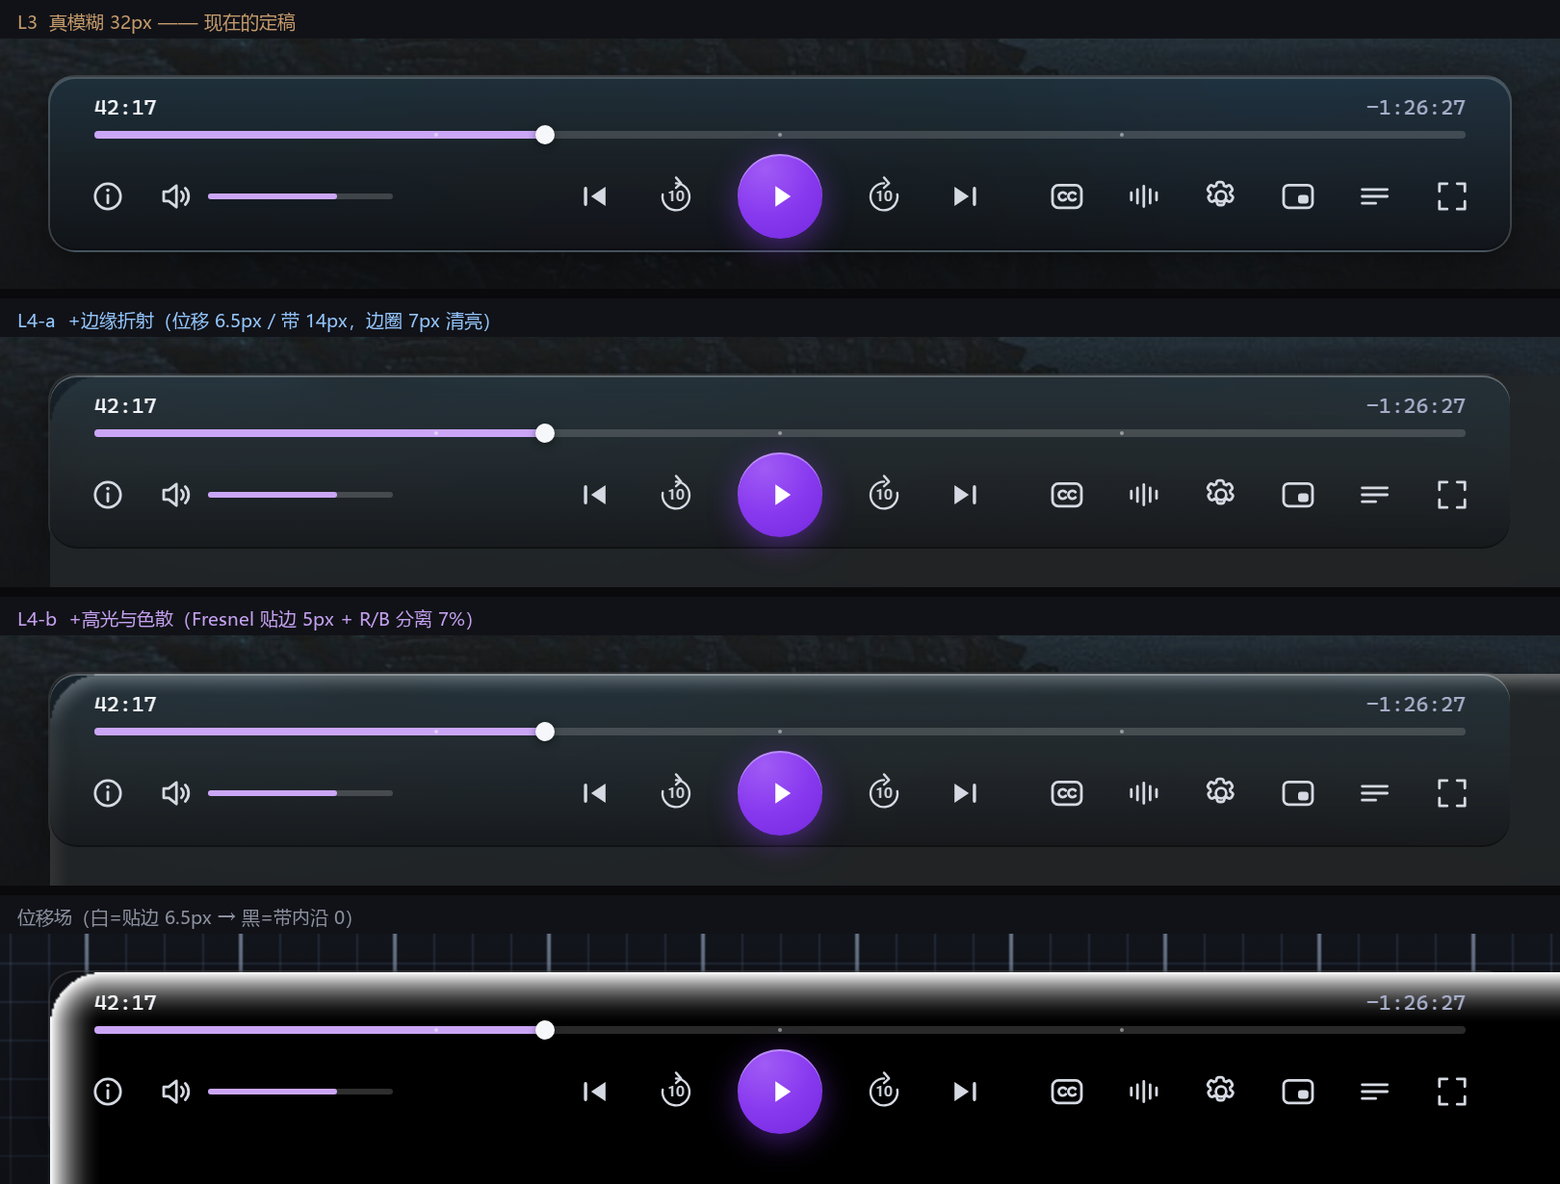
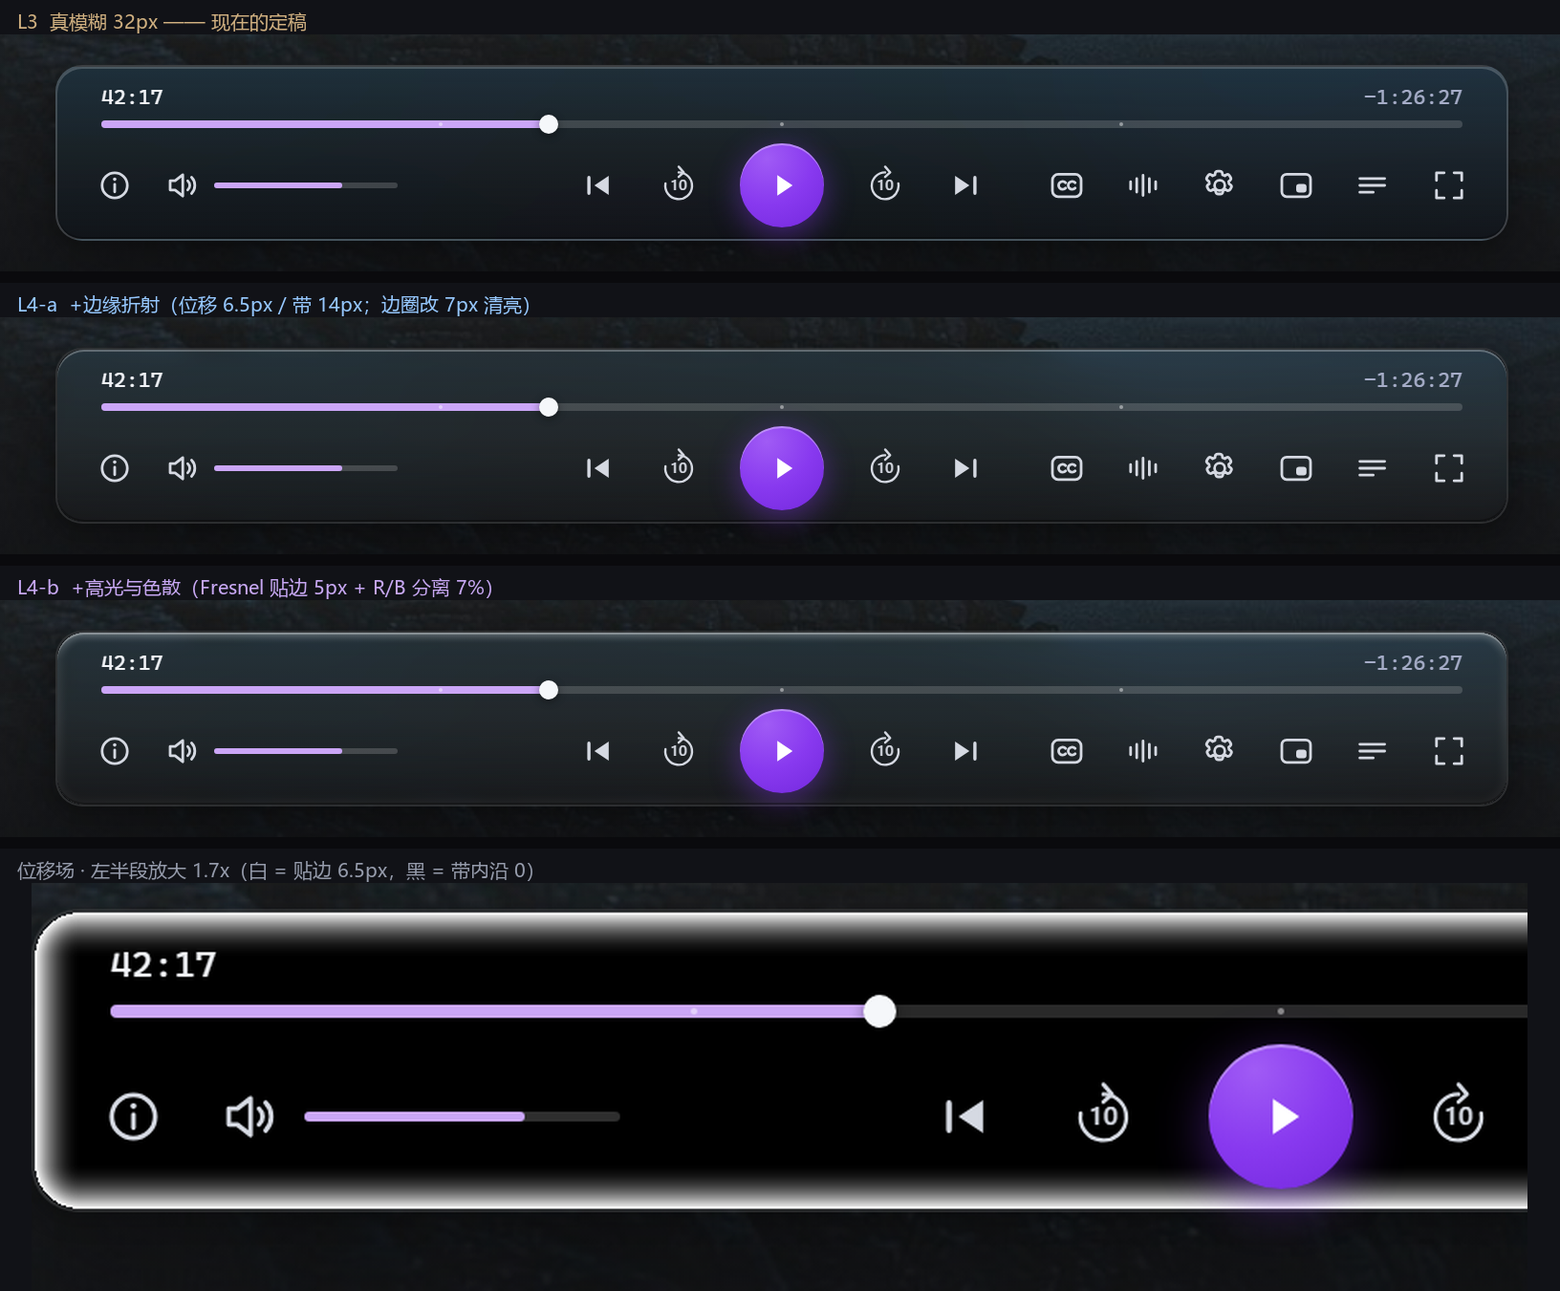
feat(preview): 液态玻璃改为双模糊 + 位移场诊断，修 canvas 尺寸与压暗层序
体部 30px / 边圈 7px 两份底，用同一条 (1-t)^2 过渡：只用一档必然二选一——整块变清或整块糊到没东西可弯。

canvas 是替换元素，inset:0 顶不住（width:auto 退回 1516x180，按 2 倍铺到胶囊外），改显式 100% + clientWidth；canvas 不透明会盖掉元素 background，染色与自适应压暗搬到 ::before，层序 z0 canvas / z1 压暗 / z2 内容 / z3 边线。

新增 ?glassdbg=1（只画位移量）与 ?card=1（高频测试卡）；maxd 放大到 20 验证过方向与范围，常规档仍 6.5px。docs/liquid-glass.png 四行对照重出。

spec.json 新增 texture_layers.L4_liquid_glass；README 补一节 L4 与两个实现坑。

diff --git a/design/preview/index.html b/design/preview/index.html
@@ -321,7 +321,10 @@ body{
      z2  内容            —— 进度条与按钮，玻璃可以扭，字必须锐
      z3  ::after         —— 1px 顶亮/底暗
 */
-.capsule > .glass{display:none;position:absolute;inset:0;z-index:0;pointer-events:none}
+/* canvas 是**替换元素**：`inset:0` 顶不住它——width:auto 会退回属性里的
+   intrinsic 尺寸（1520×184），结果它按 2 倍大小铺到胶囊外面去。
+   必须显式给 100%，尺寸才等于胶囊的 padding box。 */
+.capsule > .glass{display:none;position:absolute;left:0;top:0;width:100%;height:100%;z-index:0;pointer-events:none}
 .mode-liquid .capsule > .glass{display:block}
 .mode-liquid .capsule > .progress,
 .mode-liquid .capsule > .controls{position:relative;z-index:2}
@@ -780,10 +783,12 @@ function renderGlass(){
   if(!glassMode || !glassBgReady || glassBusy) return;
   glassBusy = true;
 
-  const W = capEl.offsetWidth, H = capEl.offsetHeight;
+  // 尺寸用 padding box（= canvas 的 100%），再加回 1px 描边才是它的窗口坐标
+  const W = capEl.clientWidth, H = capEl.clientHeight;
+  const bw = (capEl.offsetWidth - W) / 2, bh = (capEl.offsetHeight - H) / 2;
   // left:50% + translateX(-50%)：offsetLeft 是"50%"那个值，视觉左沿要减半宽
-  const x0 = capEl.offsetLeft - W / 2;
-  const y0 = capEl.offsetTop;
+  const x0 = capEl.offsetLeft - capEl.offsetWidth / 2 + bw;
+  const y0 = capEl.offsetTop + bh;
 
   const st = Math.min(2, window.devicePixelRatio || 1);
   const cw = Math.round(W * st), ch = Math.round(H * st);

diff --git a/scripts/make-liquid-doc.py b/scripts/make-liquid-doc.py
@@ -1,6 +1,8 @@
 """生成 docs/liquid-glass.png：L3 / +边缘折射 / +高光色散 / 位移场 四行对照。
 
 数据来自 target/lg 下 2x 截图（?bare=1 的窗口本身）。
+前三行裁整条胶囊（同框同尺寸，可直接上下比对）；第四行是位移场，
+只取左半段并放大 1.7x —— 标出来是放大图，避免和前几行混淆。
 """
 from pathlib import Path
 
@@ -9,43 +11,44 @@ from PIL import Image, ImageDraw, ImageFont
 LG = Path('target/lg')
 OUT = Path('docs/liquid-glass.png')
 
-BOX = (470, 1330, 2090, 1590)      # 胶囊带（2x 像素）
-FIELD_BOX = (470, 1330, 2090, 1590)
+BAND = (462, 1336, 2094, 1584)        # 整条胶囊（2x）：520-58 .. 2040+54
+FIELD = (520, 1352, 1430, 1600)       # 左半段，用于放大展示位移场
+FIELD_Z = 1.72
 
-FONT = ImageFont.truetype('C:/Windows/Fonts/msyh.ttc', 24)
-FONT_S = ImageFont.truetype('C:/Windows/Fonts/msyh.ttc', 19)
+FONT = ImageFont.truetype('C:/Windows/Fonts/msyh.ttc', 20)
+LABEL_H = 36
+GAP = 12
 
 ROWS = [
-    ('r_off.png',  'L3  真模糊 32px —— 现在的定稿', (196, 154, 108)),
-    ('r_edge.png', 'L4-a  +边缘折射（位移 6.5px / 带 14px，边圈 7px 清亮）', (147, 197, 253)),
-    ('r_full.png', 'L4-b  +高光与色散（Fresnel 贴边 5px + R/B 分离 7%）', (196, 160, 240)),
-    ('w_dbg.png',  '位移场（白=贴边 6.5px → 黑=带内沿 0）', (140, 145, 160)),
+    ('r_off.png',  BAND, 1.0, 'L3  真模糊 32px —— 现在的定稿', (208, 176, 128)),
+    ('r_edge.png', BAND, 1.0, 'L4-a  +边缘折射（位移 6.5px / 带 14px；边圈改 7px 清亮）', (150, 200, 255)),
+    ('r_full.png', BAND, 1.0, 'L4-b  +高光与色散（Fresnel 贴边 5px + R/B 分离 7%）', (200, 168, 244)),
+    ('r_dbg.png',  FIELD, FIELD_Z, '位移场 · 左半段放大 1.7x（白 = 贴边 6.5px，黑 = 带内沿 0）', (150, 156, 172)),
 ]
 
-LABEL_H = 40
-tape = Image.new('RGB', (BOX[2] - BOX[0], 0))
 rows = []
-for fn, tag, color in ROWS:
-    box = FIELD_BOX if fn.startswith('w_dbg') else BOX
+for fn, box, z, tag, color in ROWS:
     im = Image.open(LG / fn).convert('RGB').crop(box)
-    row = Image.new('RGB', (im.width, im.height + LABEL_H), (17, 18, 23))
-    row.paste(im, (0, LABEL_H))
-    d = ImageDraw.Draw(row)
-    d.text((18, 9), tag, font=FONT_S, fill=color)
-    rows.append(row)
+    if z != 1.0:
+        im = im.resize((round(im.width * z), round(im.height * z)), Image.LANCZOS)
+    rows.append((im, tag, color))
 
-GAP = 10
-W = rows[0].width
-H = sum(r.height for r in rows) + GAP * (len(rows) - 1)
+W = max(r[0].width for r in rows)
+built = []
+for im, tag, color in rows:
+    row = Image.new('RGB', (W, im.height + LABEL_H), (17, 18, 23))
+    row.paste(im, ((W - im.width) // 2, LABEL_H))
+    ImageDraw.Draw(row).text((18, 8), tag, font=FONT, fill=color)
+    built.append(row)
+
+H = sum(r.height for r in built) + GAP * (len(built) - 1)
 out = Image.new('RGB', (W, H), (10, 10, 13))
 y = 0
-for r in rows:
+for r in built:
     out.paste(r, (0, y))
     y += r.height + GAP
 
-# 缩到 1560 宽（文档里够看，文件不至于太大）
 if out.width > 1560:
-    h = round(out.height * 1560 / out.width)
-    out = out.resize((1560, h), Image.LANCZOS)
+    out = out.resize((1560, round(out.height * 1560 / out.width)), Image.LANCZOS)
 out.save(OUT, optimize=True)
 print(OUT, out.size, OUT.stat().st_size // 1024, 'KB')

diff --git a/design/README.md b/design/README.md
@@ -14,7 +14,7 @@
 | **视频播放态**（主窗 / 歌单展开 / 视频信息） | **`preview/index.html`** —— 画布上已不再有这几帧，见下面「为什么视频态不在画布上」 |
 | 应用图标 | `icons/chroma-{256,128,64,32,16}.png`（设计稿导出）；实际构建用的 `assets/chroma.ico` 见 `../docs/app-icon.png` |
 | 一眼看全貌 | `../docs/design-overview.png`（10 帧缩略图） |
-| 控制栏质感到什么程度 | `../docs/capsule-compare.png`（历史：画布 L3 vs 真模糊）、`../docs/texture-layers.png`（L0→L3 四层，自上而下） |
+| 控制栏质感到什么程度 | `../docs/capsule-compare.png`（历史：画布 L3 vs 真模糊）、`../docs/texture-layers.png`（L0→L3 四层，自上而下）、`../docs/liquid-glass.png`（L3 / +边缘折射 / +高光色散 / 位移场） |
 | 控制层什么时候会消失 | `../docs/chrome-fade.png`（常态 / 闲置 2.5s 对照） |
 
 `spec.json` 的结构：`tokens`（浅/深色板 + 玻璃浮层 + OSC）→ `logo` → `windows`（双平台窗口尺寸）→ `window_edge`（有没有描边、投影怎么给）→ `chrome_auto_hide`（闲置淡出）→ `control_bar` → `playlist_panel` → `first_run` → `osd_video_info` → `frames`/`icons`（清单与节点 id）→ `known_gaps`（已知偏差，**先看这个再量图**）。
@@ -53,12 +53,33 @@
 | **L1 方向光** | 顶部高光 + 底部暗线 + 双段投影 + 画面底部 vignette + hover 响应 + 等宽数字 | 纯样式，**现在就能做** |
 | **L2 画面染色** | 从画面底部取样，**只取色相**（S 固定 46%、L 固定 36%）给玻璃染色 | 低：切歌/seek 后截一帧算一次并缓存 |
 | **L3 真模糊** | `backdrop blur(56px) saturate(175%) brightness(1.05)`，底色降到 `.48` | 高：依赖 libmpv render API 进自己的合成树（**已落地**，见下） |
+| **L4 液态玻璃**（实验，默认关） | 在 L3 之上加边缘折射：14px 带内沿法线把背景拉开 6.5px，`full` 档再加 Fresnel 与色散 | 中：CPU 逐像素，一次性重算（**只在 HTML 里**，Rust 未做） |
 
 L3 已定稿：控制栏是染色的渐变玻璃 + 白 18% 描边 + `BACKGROUND_BLUR 56`，窗口底部另加一层 240 高的暗角遮罩（`#0B0C10` 0 → 55%），保证 11px 小字在亮画面上仍有对比。**这套现在只在 HTML 原型里**（画布的视频帧已删），参数以 `spec.json → texture_layers.L3_real_blur` 为准。音乐模式 / 设置 / 首屏没有视频底，不适用。
 
 > 代码侧已按 L3 实现（2026-10-18 第十五轮，`--wid` 叠加窗换成 mpv 软件渲染 → GPUI 纹理）：模糊底是**同一帧降到 48×20 再拉伸**（GPU 双线性 ≈ 大半径 box blur），不是逐像素的高斯核；底色仍是 72% 平铺 + L1 渐变。观感接近 HTML 原型，大块纯色边界会略软一点。
 
 （注意区分两种「描边」：胶囊**内部**那圈白 14–18% 是玻璃的厚度感，保留；**窗口外缘**那圈已经删掉，见下节。）
+
+## L4 液态玻璃（实验）
+
+iOS 26 Liquid Glass 那一路：玻璃的边不是「更狠的模糊」，是**斜边**——边缘带的像素被沿法线往外拉开几 px，中心零位移，所以字还是清的。参数与推导见 `spec.json → texture_layers.L4_liquid_glass`，对照图 `../docs/liquid-glass.png`。
+
+四条不能碰的线：
+
+1. **位移只在边缘带**（14px），中心不揉——否则 11px 时间码先糊；
+2. 采样源**先模糊**，否则视频的亮部会被拉成拉丝；
+3. 位移有硬上限（6.5px，比 iOS 的 8 保守）：压在视频上比压在壁纸上激进得多；
+4. **体部和边圈两档模糊**（30px / 7px）。只用一档必然二选一：要么整块变清像换了材质，要么整块糊到没东西可弯。真实玻璃的边是斜的、看过去通透，就这条。
+
+两个实现坑（都在 HTML 里踩过）：
+
+- **canvas 是替换元素**：只给 `inset:0` 不管用，`width:auto` 会退回属性里的 intrinsic 尺寸（1520×184），按 2 倍铺到胶囊外面。必须显式 `width/height:100%`。
+- **canvas 不透明**：它会把元素自己的 `background` 整块盖掉，所以「染色 + 自适应压暗」必须搬到 canvas **上面**的伪元素（`::before`），留在 `.capsule` 上等于没写。
+
+层序固定为：`z0` canvas → `z1` 染色+压暗 → `z2` 内容 → `z3` 1px 顶亮/底暗。
+
+> 还没做的事：位移目前是一张静态底（`--still`）。真机上画面在动，得每帧重算或按脏区重算——这正是它「先放 HTML 里评估，不进 Rust」的原因。
 
 ## 窗口边缘：不画描边
 
@@ -87,6 +108,7 @@ L3 已定稿：控制栏是染色的渐变玻璃 + 白 18% 描边 + `BACKGROUND_
 - 底部工具条是**逐层叠加**的质感档位，也可用 URL 参数固定：
   `?layers=`（L0 设计稿原样）· `?layers=enh`（L1 方向光）· `?layers=enh,tint`（L2 画面染色）· `?layers=enh,tint,realblur`（L3 真模糊，默认）· `?layers=noblur`（Win 现状）
   另有 `&panel=osd|playlist`。三层的具体数值见 `spec.json` 的 `texture_layers`。
+- 液态玻璃另有一组开关：`&liquid=edge|full`（`off` 默认），配套两个诊断参数 `&card=1`（换成高频测试卡：竖线看水平位移、网格看圆角法线是否连续）、`&glassdbg=1`（只画位移场：白=贴边 6.5px → 黑=带内沿 0）。
 - 截图参数：`?idle=1` 冻结在闲置淡出态、`?bare=1` 去掉页面留白和底部工具条（截图区域正好是 1280×800 的窗口本身，不用再按坐标裁；顺带关掉过渡，避免截到半透明中间态）。
 - 列表 10 条与设计稿 `21:170` **逐字一致**（标题 / 元信息 / 当前播放行的三柱图标 / 底部「10 个文件 · 3:42:18」）。HTML 里的列表数据在脚本开头的 `items` 数组，改数据只改那里。
 - 换底图：改 `assets/video-still.jpg` 后要重新内联进 HTML（相对路径在预览面板里会被 403）。

diff --git a/.workbuddy/memory/2026-10-18.md b/.workbuddy/memory/2026-10-18.md
@@ -1786,3 +1786,63 @@ hover 状态）；`icon_hover.active_scale .92`（`ButtonCustomVariant::active()
 另外 `AdjustWindowRectExForDpi` 在「客户区铺满窗口」的窗口上会**多减一圈**（请求 1920×1080
 只得到 1898×1024），改成直接量「窗口矩形 − 客户区」。截图按**物理像素**输出，
 720p 片子不给缩放（缩回逻辑像素会把画面压扁）。
+## 26. 液态玻璃进 HTML 原型（实验档 L4，默认关闭）
+
+用户问「libmpv render API 能不能把控制栏画成 iOS / 鸿蒙的液态玻璃」，答：能，而且
+走 sw render 反而更顺（帧本来就在 CPU 内存里，GPUI 的 `img()` 只吃 `image::Frame` 的
+CPU 像素，上 GPU 要多一次 CPU→GPU→CPU 往返）。用户说「先加到 html 上」——于是只在
+`preview/index.html` 实现，默认仍 L3。
+
+算法：圆角矩形 SDF → 边缘法线 → `t=clamp(-d/band,0,1)` → `m=maxd*(1-t)²` →
+采样 `p+n·m`。参数 `band 14 / maxd 6.5 / blur_body 30 / blur_rim 7 / radius 14`。
+
+### 26.1 双模糊是关键决策
+
+一开始只用 `blur 6`，结果**整块变清**——看着像换了种材质，而不是加了一层折射。
+只用 32（L3 同档）又**没东西可弯**。正解是两份底：体部 30（保住 L3 的霜面）、边圈 7
+（才有细节被拉弯），两者用同一条 `(1-t)²` 过渡——物理上「位移量」和「边圈清亮」是
+同一件事：斜边厚度。这条记进 `spec.json → L4.why_two_blurs`。
+
+### 26.2 两个真 bug
+
+1. **canvas 是替换元素**：`.glass{position:absolute;inset:0}` 约束不住它，
+   `width:auto` 退回属性里的 intrinsic 尺寸（1516×180），按 2 倍铺到胶囊外面。
+   用 `getBoundingClientRect` 量出来 1520×184 才发现。改成显式 `width/height:100%` +
+   JS 用 `clientWidth/clientHeight`（= padding box 758×90）配
+   `offsetLeft - offsetWidth/2 + (offsetWidth-clientWidth)/2`。
+2. **canvas 不透明，会盖掉元素自己的 background**：所以「染色 + 自适应压暗」写在
+   `.capsule` 上等于没写（之前调 `--scrim` 一直"没反应"就是这个）。搬到 `::before`，
+   层序定为 `z0 canvas → z1 染色压暗 → z2 内容 → z3 1px 顶亮底暗`。
+
+### 26.3 验证方法（比肉眼看可靠）
+
+- `?card=1`：20px 网格 + 每 80px 一根亮竖线穿过胶囊。**刻意不放密集白字**（糊成一片灰
+  反而把位移藏住），文字放胶囊上方只看会不会揉糊。
+- `?glassdbg=1`：只画位移量（白 = 贴边 maxd → 黑 = 带内沿 0）。一眼能看出「边缘圈存在、
+  四条直边一致、圆角法线连续」。调参最有用的一个视图。
+- `maxd` 临时放大到 20 + `blur_rim → 0` 的临时副本（`target/lg/dbg2.html`）：竖线在边缘
+  明显折断、圆角连续、中心文字不动、胶囊外网格完全平直 → 方向（往外拉）与范围都对。
+- 数值比对：`off vs edge` 差值图 ×8 放大，确认改动只在胶囊边缘带 + 投影范围。
+- headless 里带 `--force-device-scale-factor=2` 时 `devicePixelRatio` 才是 2，
+  canvas buffer 才会是 2x；不带就是 1x，截出来的折射层会发虚（别误判成参数问题）。
+
+### 26.4 产物
+
+- `design/preview/index.html`：`?liquid=off|edge|full`、工具条第二排三档、`?card=1`、`?glassdbg=1`
+- `design/spec.json`：新增 `texture_layers.L4_liquid_glass`（参数 / 公式 / 两个坑 / 被否掉的方案 / 成本）
+- `design/README.md`：新增「L4 液态玻璃（实验）」一节，参数表加一行
+- `docs/liquid-glass.png`：L3 / +边缘折射 / +高光色散 / 位移场 四行对照
+  （`scripts/make-liquid-doc.py` 生成，取 `target/lg/r_*.png`）
+
+### 26.5 明确没做的
+
+- **不进 Rust**：现在吃的是静态底（`--still`），真机画面在动，要每帧重算或按脏区重算；
+  而且 L3 当前实现是「整块缩略图铺满胶囊」、**不对位**，做折射前必须先换成矩形区域对位采样。
+- 没做 metaball 融合 / 气态消散 / 按压点光源（前两个要 3D 光照与流体，收益远小于成本）。
+- 默认档仍 L3；是否转正（工具条默认 / 进代码）等真机跑一遍再定。
+
+### 26.6 并行会话的坑（再次踩到）
+
+`git log -S glassBgRim` 发现我这轮的中间态被**另一个会话在 23:22 顺手 `git add -A` 提交**
+进了 `f2f34bc`（消息写的是"画布删 6 帧"，内容却含我的液态玻璃代码），所以本轮后续
+`git diff` 只剩十几行。以后判断"改了多少"要看工作区 vs HEAD，别信 diff 行数。

diff --git a/.workbuddy/memory/MEMORY.md b/.workbuddy/memory/MEMORY.md
@@ -5,6 +5,7 @@
 | 想知道什么 | 看哪 |
 |---|---|
 | 色板 / 控制栏几何 / UI 样式坑 / 质感三层 / 控制层自动淡出 | `design-spec.md` |
+| **L4 液态玻璃**（实验档，只在 HTML） | `spec.json → texture_layers.L4_liquid_glass` + `2026-10-18.md` 第 26 节 |
 | Win 后端行为 / 窗口过程 / 全屏与尺寸 / 键盘派发 / 无头测试 | `win32-gpui.md` |
 | libmpv 选型 / 线程契约 / **SW render API** / 图集 / 验收竞态 | `libmpv-migration.md` |
 | 构建打包 / `shot.py` / 验收脚本坑 / 设计导出管线 / ps1 编码 | `tooling.md` |
@@ -40,3 +41,8 @@
 - 快捷键必须走 `App::intercept_keystrokes`（`bind_keys` + `on_action` 收不到，无焦点时派发给根）。
 - 字体只取系统自带族（Win `Microsoft YaHei UI`）；浅底面板上的按钮用主题色，别用 `overlay::*`。
 - 验收脚本：胶囊左沿走 `capsule_left()`、每次点击记 `WindowFromPoint` 的类名、有空闲间隔先 `wake()`。
+- **玻璃层与压暗层必须分层**：折射层（canvas / 纹理）是不透明的，会整块盖掉父元素的
+  `background`——染色与自适应压暗要画在它**上面**，否则等于没写。
+- **液态玻璃要进代码前先修采样**：L3 现在是「整块缩略图铺满胶囊」，**不对位**，做折射
+  必须换成矩形区域对位采样；且折射要两份模糊（体部 ≈ 32 / 边圈 ≈ 7）。
+- 并行会话会顺手 `git add -A`：判断「这轮改了多少」看工作区 vs HEAD，别信 `git diff` 行数。
